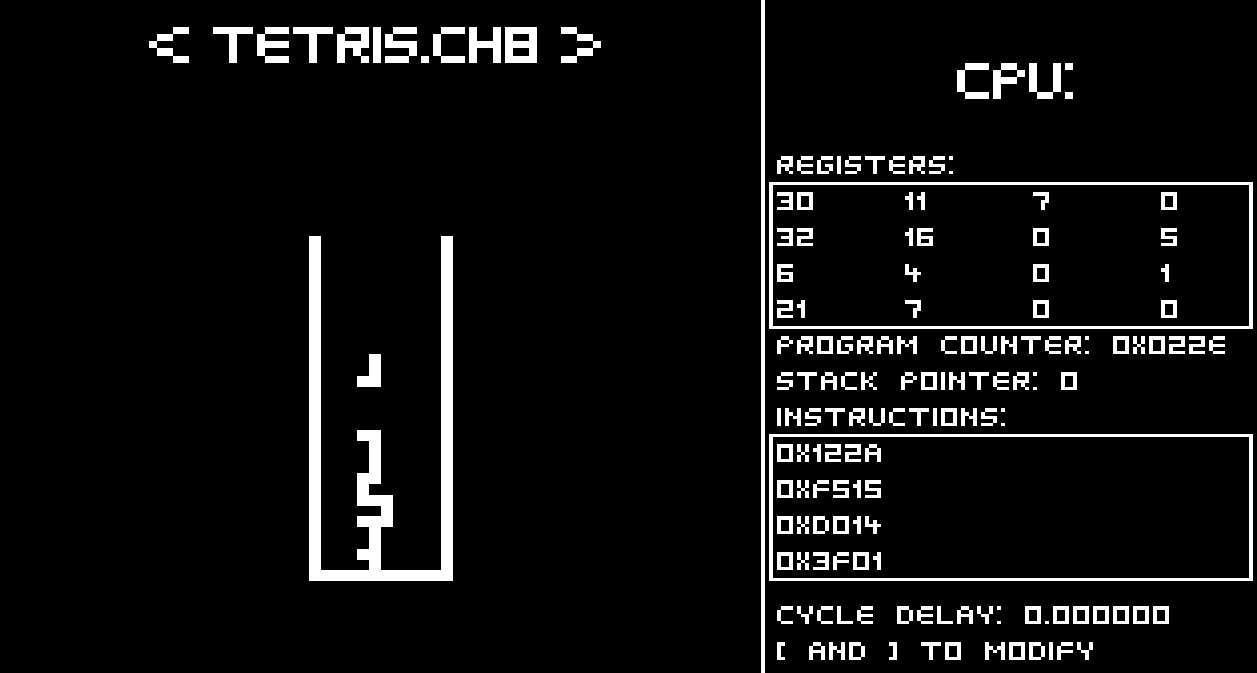
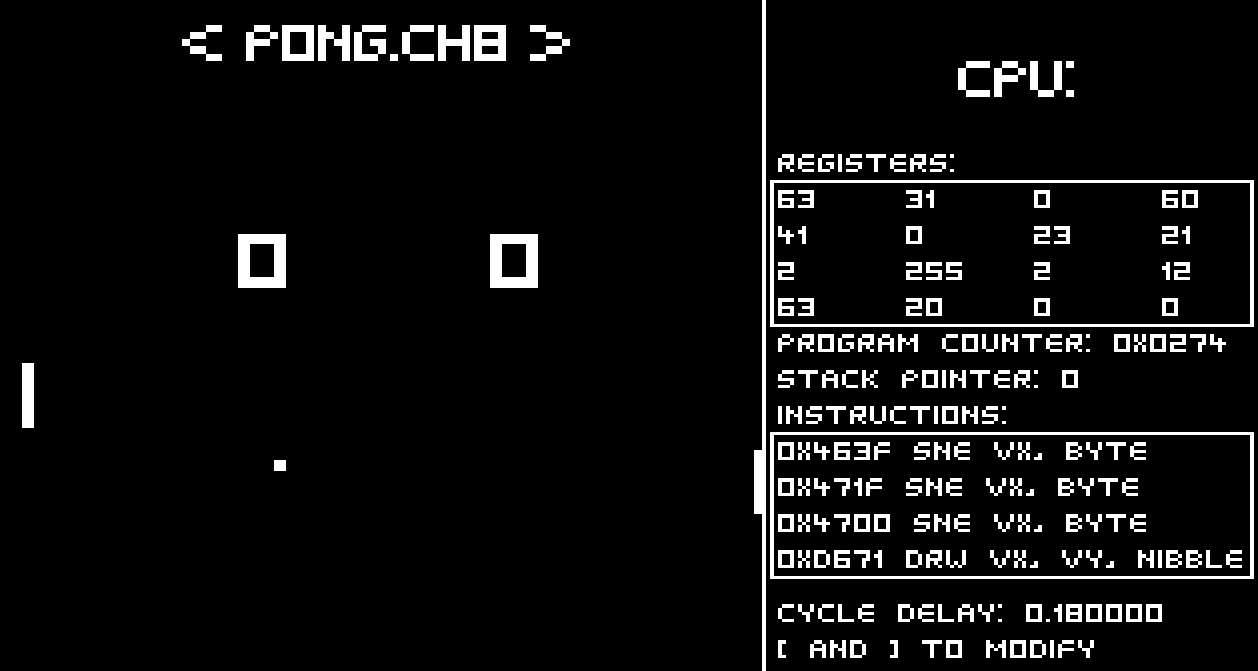
ins name

diff --git a/CHIP-8 Emulator/chip8.cpp b/CHIP-8 Emulator/chip8.cpp
@@ -10,7 +10,9 @@ void chip8::initialize()
 	pc = MEMORY_START_ADRESS;
 	load_font();
 	load_instructions();
+	load_ins_name();
 }
+
 void chip8::reset()
 {
 	pc = MEMORY_START_ADRESS;
@@ -435,6 +437,44 @@ void chip8::load_instructions()
 	instructions[0xF065] = &chip8::op_Fx65;
 }
 
+void chip8::load_ins_name()
+{
+	ins_names[0x00E0] = "CLS";
+	ins_names[0x00EE] = "RET";
+	ins_names[0x1000] = "JP addr";
+	ins_names[0x2000] = "CALL addr";
+	ins_names[0x3000] = "SE Vx, byte";
+	ins_names[0x4000] = "SNE Vx, byte";
+	ins_names[0x5000] = "SE Vx, Vy";
+	ins_names[0x6000] = "LD Vx, byte";
+	ins_names[0x7000] = "ADD Vx, byte";
+	ins_names[0x8000] = "LD Vx, Vy";
+	ins_names[0x8001] = "OR Vx, Vy";
+	ins_names[0x8002] = "AND Vx, Vy";
+	ins_names[0x8003] = "XOR Vx, Vy";
+	ins_names[0x8004] = "ADD Vx, Vy";
+	ins_names[0x8005] = "SUB Vx, Vy";
+	ins_names[0x8006] = "SHR Vx [, Vy]";
+	ins_names[0x8007] = "SUBN Vx, Vy";
+	ins_names[0x800E] = "SHL Vx [, Vy]";
+	ins_names[0x9000] = "SNE Vx, Vy";
+	ins_names[0xA000] = "LD I, addr";
+	ins_names[0xB000] = "JP V0, addr";
+	ins_names[0xC000] = "RND Vx, byte";
+	ins_names[0xD000] = "DRW Vx, Vy, nibble";
+	ins_names[0xE00E] = "SKP Vx";
+	ins_names[0xE001] = "SKNP Vx";
+	ins_names[0xF007] = "LD Vx, DT";
+	ins_names[0xF00A] = "LD Vx, K";
+	ins_names[0xF015] = "LD DT, Vx";
+	ins_names[0xF018] = "LD ST, Vx";
+	ins_names[0xF01E] = "ADD I, Vx";
+	ins_names[0xF029] = "LD F, Vx";
+	ins_names[0xF033] = "LD B, Vx";
+	ins_names[0xF055] = "LD [I], Vx";
+	ins_names[0xF065] = "LD Vx, [I]";
+}
+
 void chip8::execute_instuction(uint16_t opcode)
 {
 	uint16_t code = (0xF0FF & opcode);
@@ -449,4 +489,20 @@ void chip8::execute_instuction(uint16_t opcode)
 	}
 
 	(this->*(instructions[code]))();
+}
+
+std::string chip8::get_instruction_name(uint16_t opcode)
+{
+	uint16_t code = (0xF0FF & opcode);
+	if (instructions.find(code) == instructions.end())
+		code = (code & 0xFF0F);
+	if (instructions.find(code) == instructions.end())
+		code = (code & 0xFFF0);
+	if (instructions.find(code) == instructions.end())
+	{
+		std::cout << "instruction doesnt exist: " << code << "\n";
+		return "";
+	}
+
+	return ins_names[code];
 }

diff --git a/CHIP-8 Emulator/chip8.h b/CHIP-8 Emulator/chip8.h
@@ -56,12 +56,15 @@ struct chip8
 	void reset();
 	void load_rom(const std::string& filepath);
 	void execute_instuction(uint16_t opcode);
+	std::string get_instruction_name(uint16_t opcode);
 
 	void cycle();
+
 
 private:
 	void load_font();
 	void load_instructions();
+	void load_ins_name();
 
 	// Chip-8 instructions
 	void op_00E0();
@@ -101,4 +104,5 @@ private:
 
 private:
 	instruction_table instructions;
+	std::unordered_map<uint16_t, std::string> ins_names;
 };

diff --git a/CHIP-8 Emulator/main.cpp b/CHIP-8 Emulator/main.cpp
@@ -172,7 +172,7 @@ private:
 		for (uint32_t i = 0; i < 4; i++)
 		{
 			text_pos.y -= 10;
-			draw_text("0x" + hex(pcs[i], 4), text_pos.x, text_pos.y, 1, text_color);
+			draw_text("0x" + hex(pcs[i], 4) + " " + interpreter.get_instruction_name(pcs[i]), text_pos.x, text_pos.y, 1, text_color);
 		}
 		draw_quad(fm::color(1.0f, 1.0f, 1.0f), text_pos.x - 2, text_pos.y - 2, 120, 40);
 
